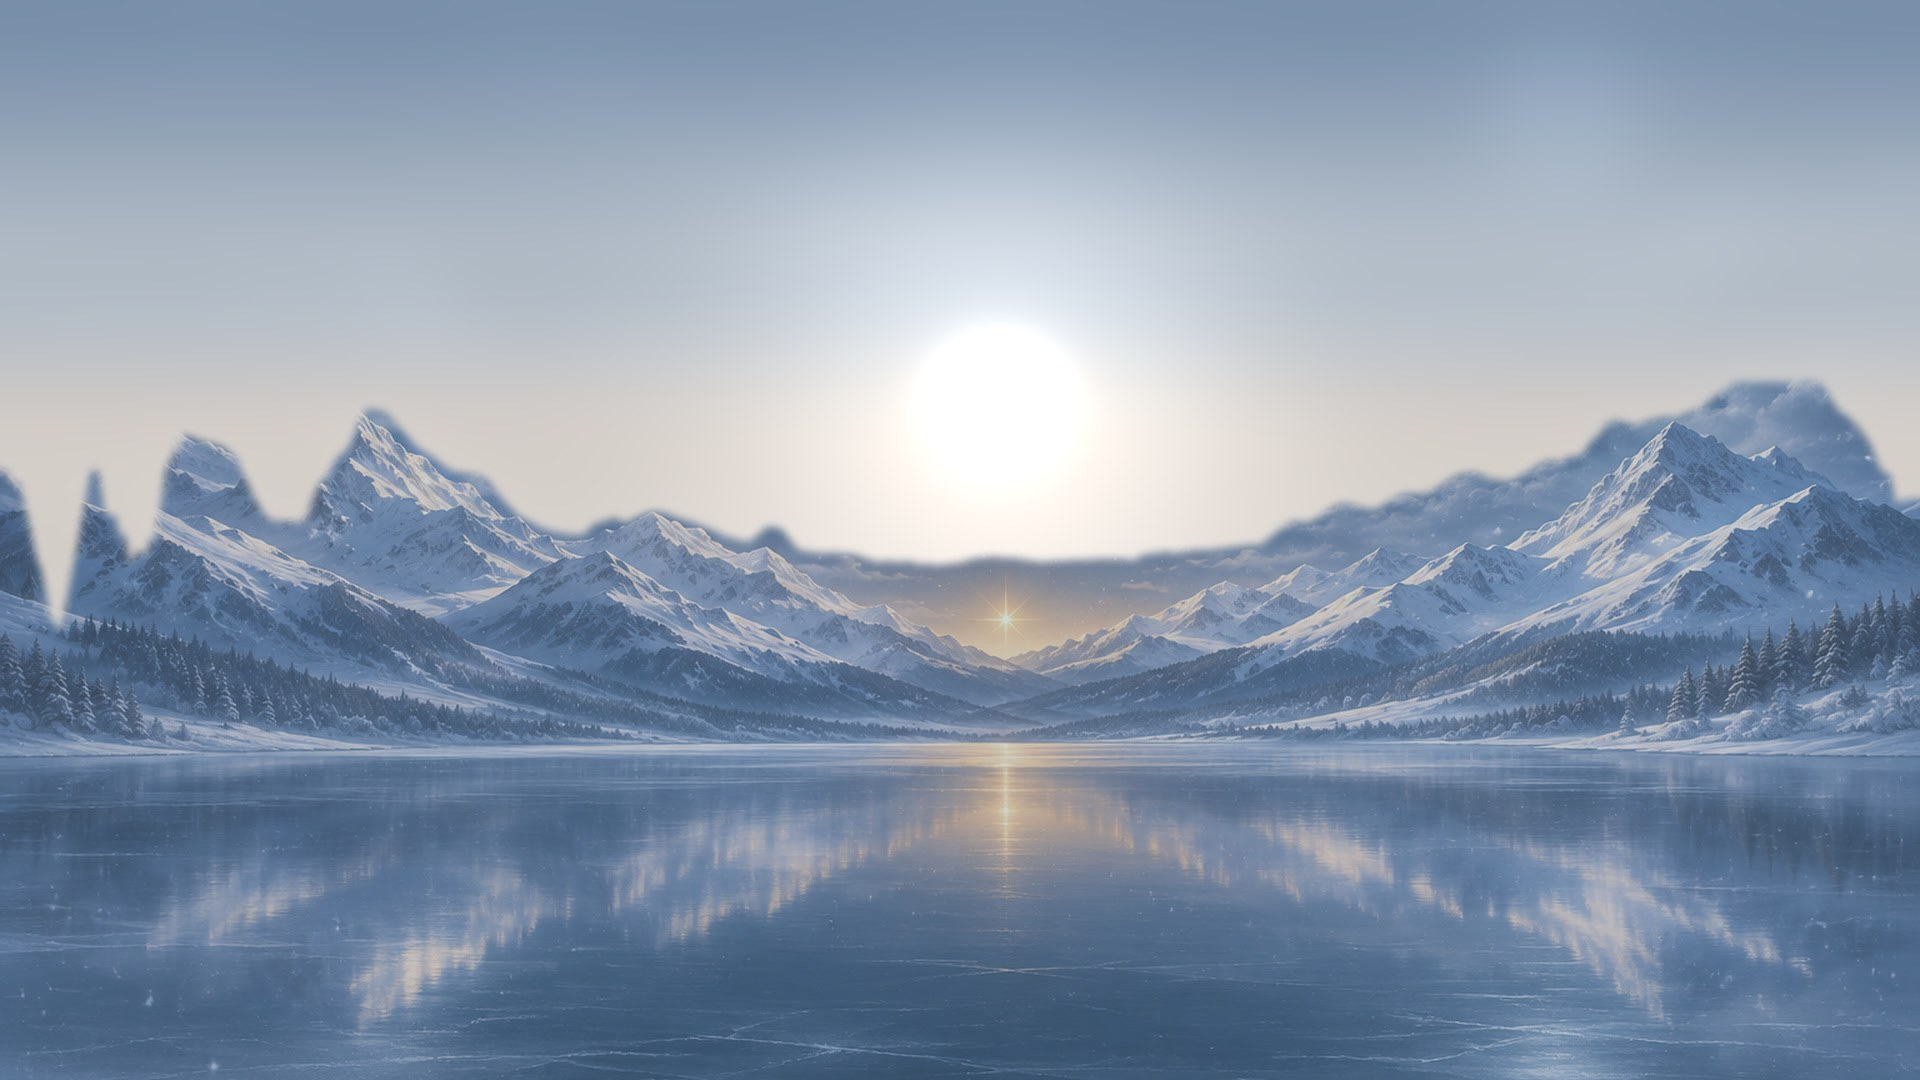
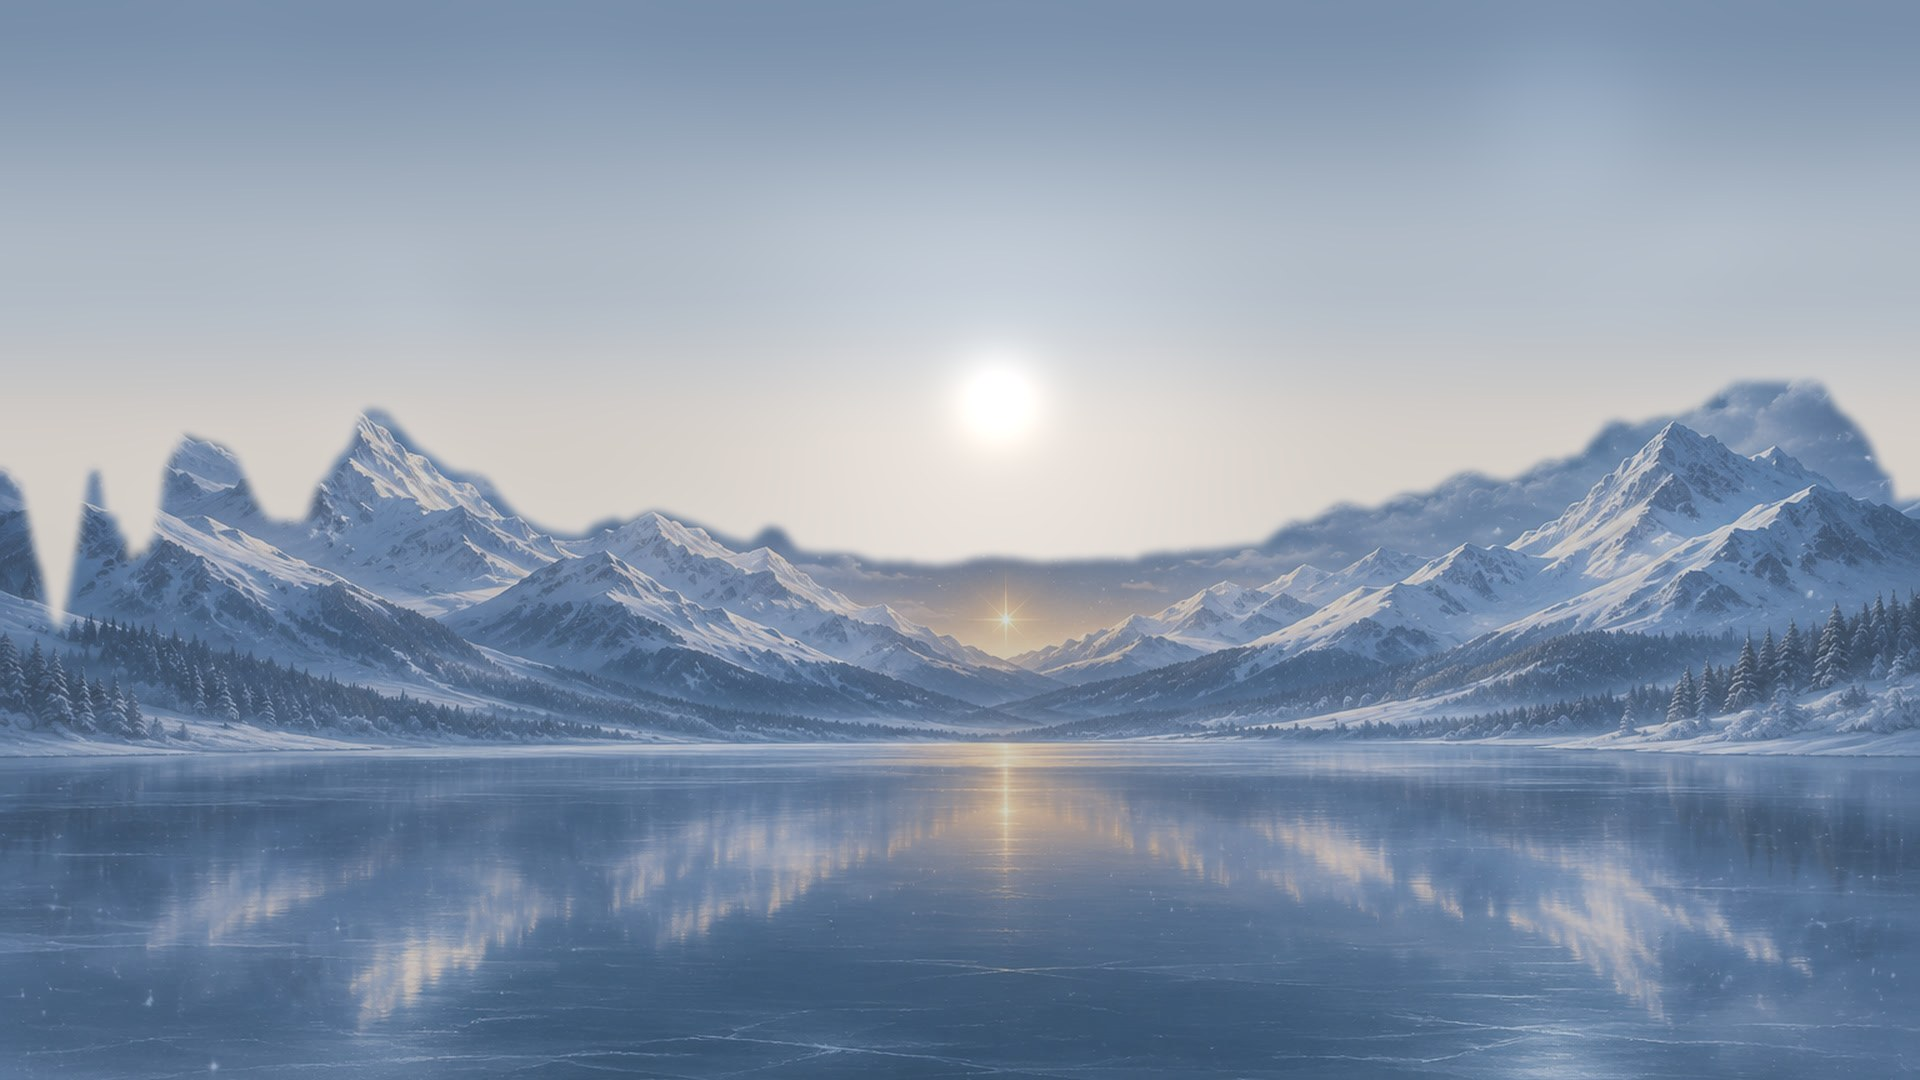
Song 04 promo v2: calmer plates, paler frost sky, plain fade into the frozen morning, stronger path of light
Claude-Session: https://claude.ai/code/session_01DSHsMeB7ain7qg3RYXYMEW

Changed region(s): [[0.4375, 0.2444, 0.5938, 0.4889]]

diff --git a/engine/songs/s04_im_sorry.py b/engine/songs/s04_im_sorry.py
@@ -156,8 +156,8 @@ BOTTOM_CALM = 1.0
 RINGS_AT_START = {6: 2}   # Encouragement was relit in songs 02 and 03; Apology (03) and Compliment (01) have no rings yet
 
 PAL = {
-    "frost":   ("#3f5d82", "#7f9bbc", "#cbd8e4", "#eef4ff"),
-    "frost2":  ("#3e5c82", "#859fbe", "#d8d8dc", "#f6efe8"),
+    "frost":   ("#5a789c", "#9db3cb", "#d6e0ea", "#eef4ff"),
+    "frost2":  ("#58779c", "#a3b6cc", "#dedcde", "#f6efe8"),
     "melt":    ("#3d5b84", "#9aa3c0", "#ead2c2", "#ffe2c6"),
     "apricot": ("#4d6e9c", "#c8aab0", "#ffc08e", "#ffd6a2"),
     "warm":    ("#4a6c9c", "#c9a6a8", "#f6bd92", "#ffdcb4"),
@@ -200,12 +200,12 @@ PETAL_COLORS = ("#ff9fb2", "#ffe0d2")
 
 # A. scenes: two plates (assets/plates/s04/), with the engine's own frozen lake before, between and after them
 SCENES = [
-    dict(image="assets/plates/s04/frozen_morning.jpg", t0=2.5, t1=20.0, fade_in=3.0, fade_out=3.0,
-         transition="dissolve", zoom=(1.03, 1.12), pan=((0.0, 0.0), (0.0, 0.015)), water=True, water_line=0.30,
-         water_strength=0.45, gain=Track([(0, 1.0), (5.0, 0.86), (17.0, 0.86), (20.0, 1.0)])),
+    dict(image="assets/plates/s04/frozen_morning.jpg", t0=2.0, t1=20.0, fade_in=3.0, fade_out=3.0,
+         transition="fade", zoom=(1.03, 1.12), pan=((0.0, 0.0), (0.0, 0.015)), water=True, water_line=0.30,
+         water_strength=0.45, gain=Track([(0, 1.0), (5.0, 0.80), (17.0, 0.80), (20.0, 1.0)])),
     dict(image="assets/plates/s04/thaw_haze.jpg", t0=27.0, t1=48.0, fade_in=3.0, fade_out=3.5,
          transition="dissolve", zoom=(1.13, 1.04), pan=((0.02, 0.0), (0.0, 0.0)), water=True, water_line=0.37,
-         gain=Track([(0, 0.92), (30.0, 0.80), (46.0, 0.80), (48.0, 0.9)])),
+         gain=Track([(0, 0.88), (30.0, 0.76), (46.0, 0.76), (48.0, 0.86)])),
 ]
 
 # B. people of light: two sisters (the shared figure library)
@@ -222,14 +222,14 @@ FIGURES = [
 
 # C. signature effects: the ice and its thaw, frost over the frame, the warm path of light across the ice
 ICE = Track([(0, 0.0), (0.8, 0.0), (4.0, 1.0), (30.0, 1.0), (34.0, 0.55), (44.0, 0.45), (47.0, 0.40), (53.0, 0.0)])
-ICE_LINE = Track([(0, 0.40), (2.5, 0.40), (5.5, 0.30), (17.0, 0.30), (20.0, 0.40), (27.0, 0.40), (30.0, 0.37),
+ICE_LINE = Track([(0, 0.40), (2.0, 0.40), (5.0, 0.30), (17.0, 0.30), (20.0, 0.40), (27.0, 0.40), (30.0, 0.37),
                   (TOTAL, 0.37)])
 ICE_OPACITY = 0.85
 ICE_FRAME = Track([(0, 0.0), (1.0, 0.0), (5.0, 0.42), (26.0, 0.42), (34.0, 0.15), (46.0, 0.10), (50.0, 0.0)])
-BEAM = Track([(0, 0.0), (30.0, 0.0), (33.0, 0.42), (40.0, 0.42), (43.0, 0.0)])
+BEAM = Track([(0, 0.0), (30.0, 0.0), (33.0, 0.62), (40.0, 0.62), (43.0, 0.0)])
 BEAM_FROM = (0.68, 0.66)
 BEAM_TO = (0.5, 0.24)
-BEAM_WIDTH = (0.010, 0.07)
+BEAM_WIDTH = (0.014, 0.10)
 BEAM_COLOR = "#ffd2a0"
 FLASH = Track([(0, 0.0), (48.4, 0.0), (49.2, 0.22), (51.0, 0.0)])
 TEXT_SHADOW = Track([(0, 1.2), (26.0, 1.2), (30.0, 1.6), (TOTAL, 1.6)])
